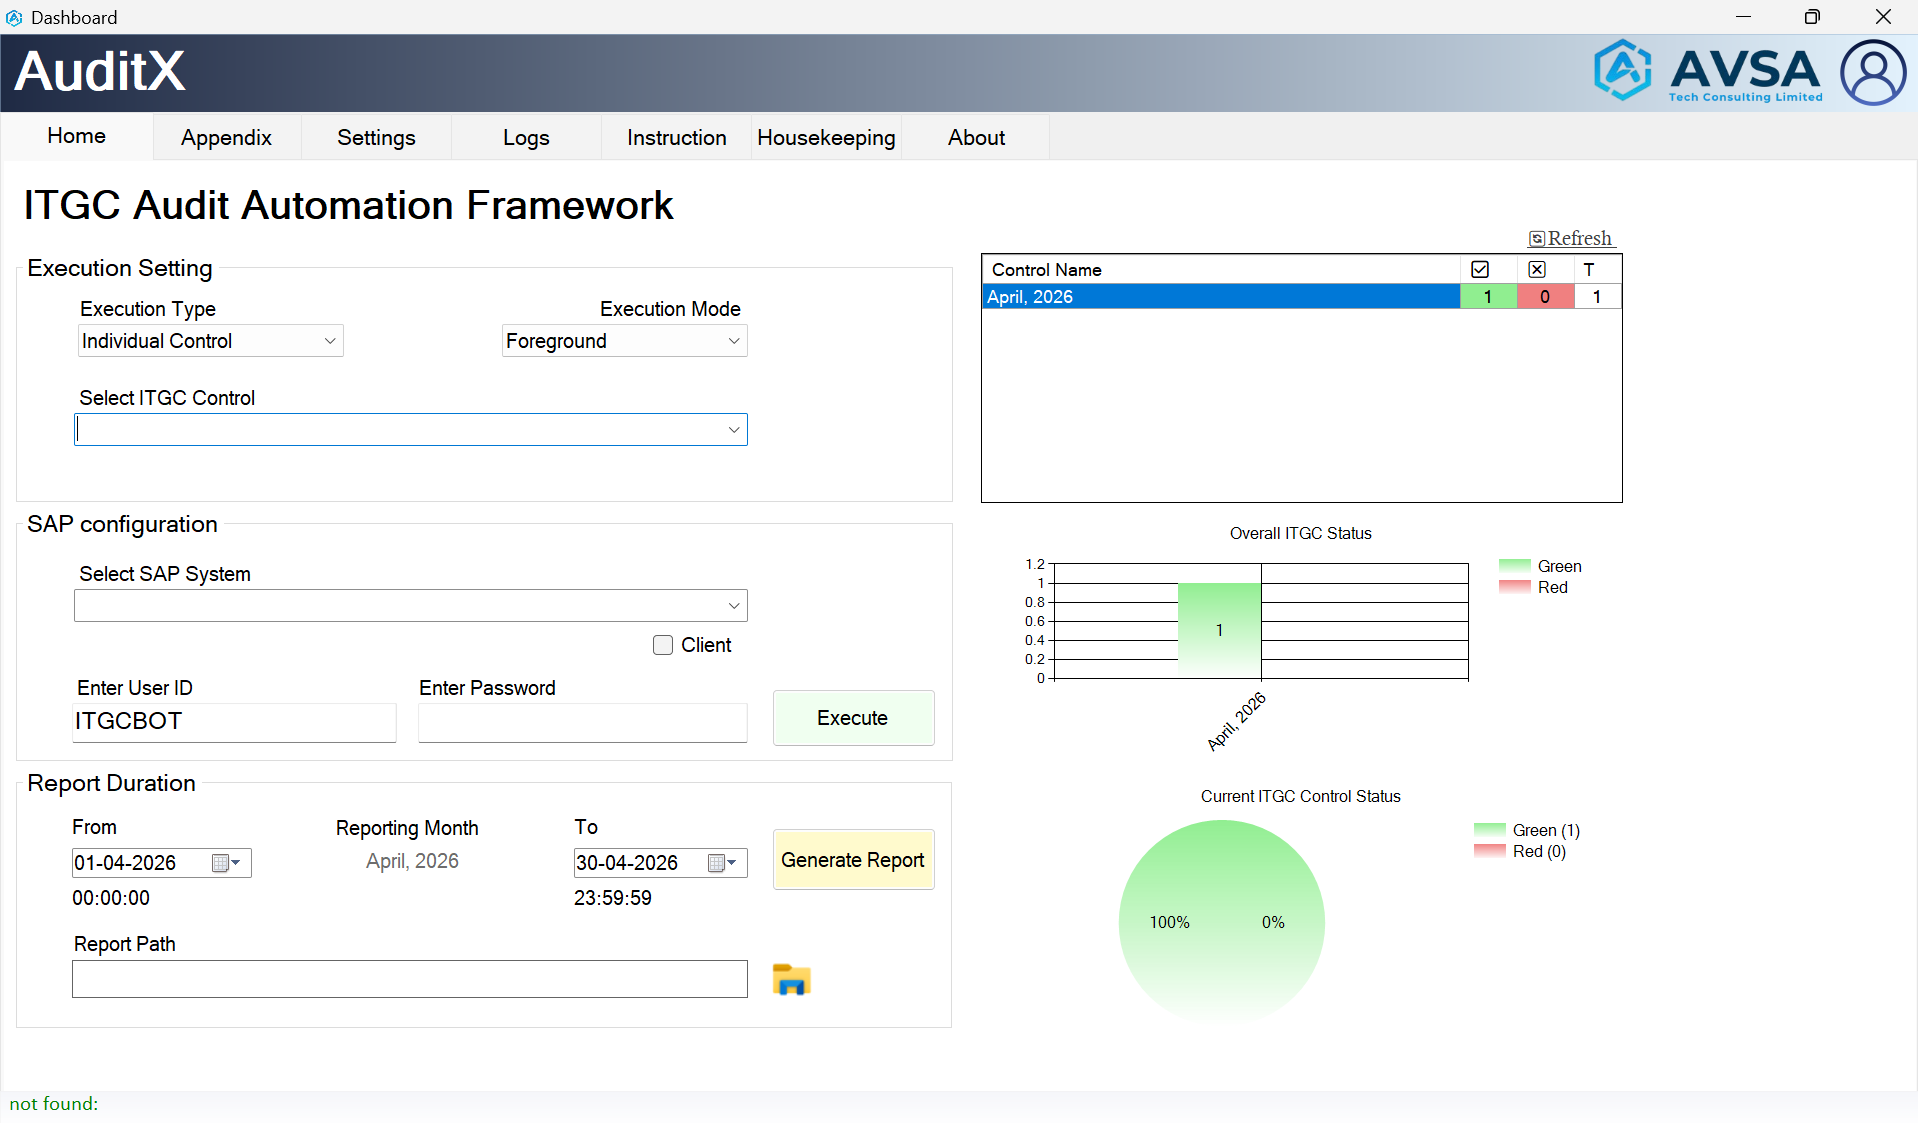
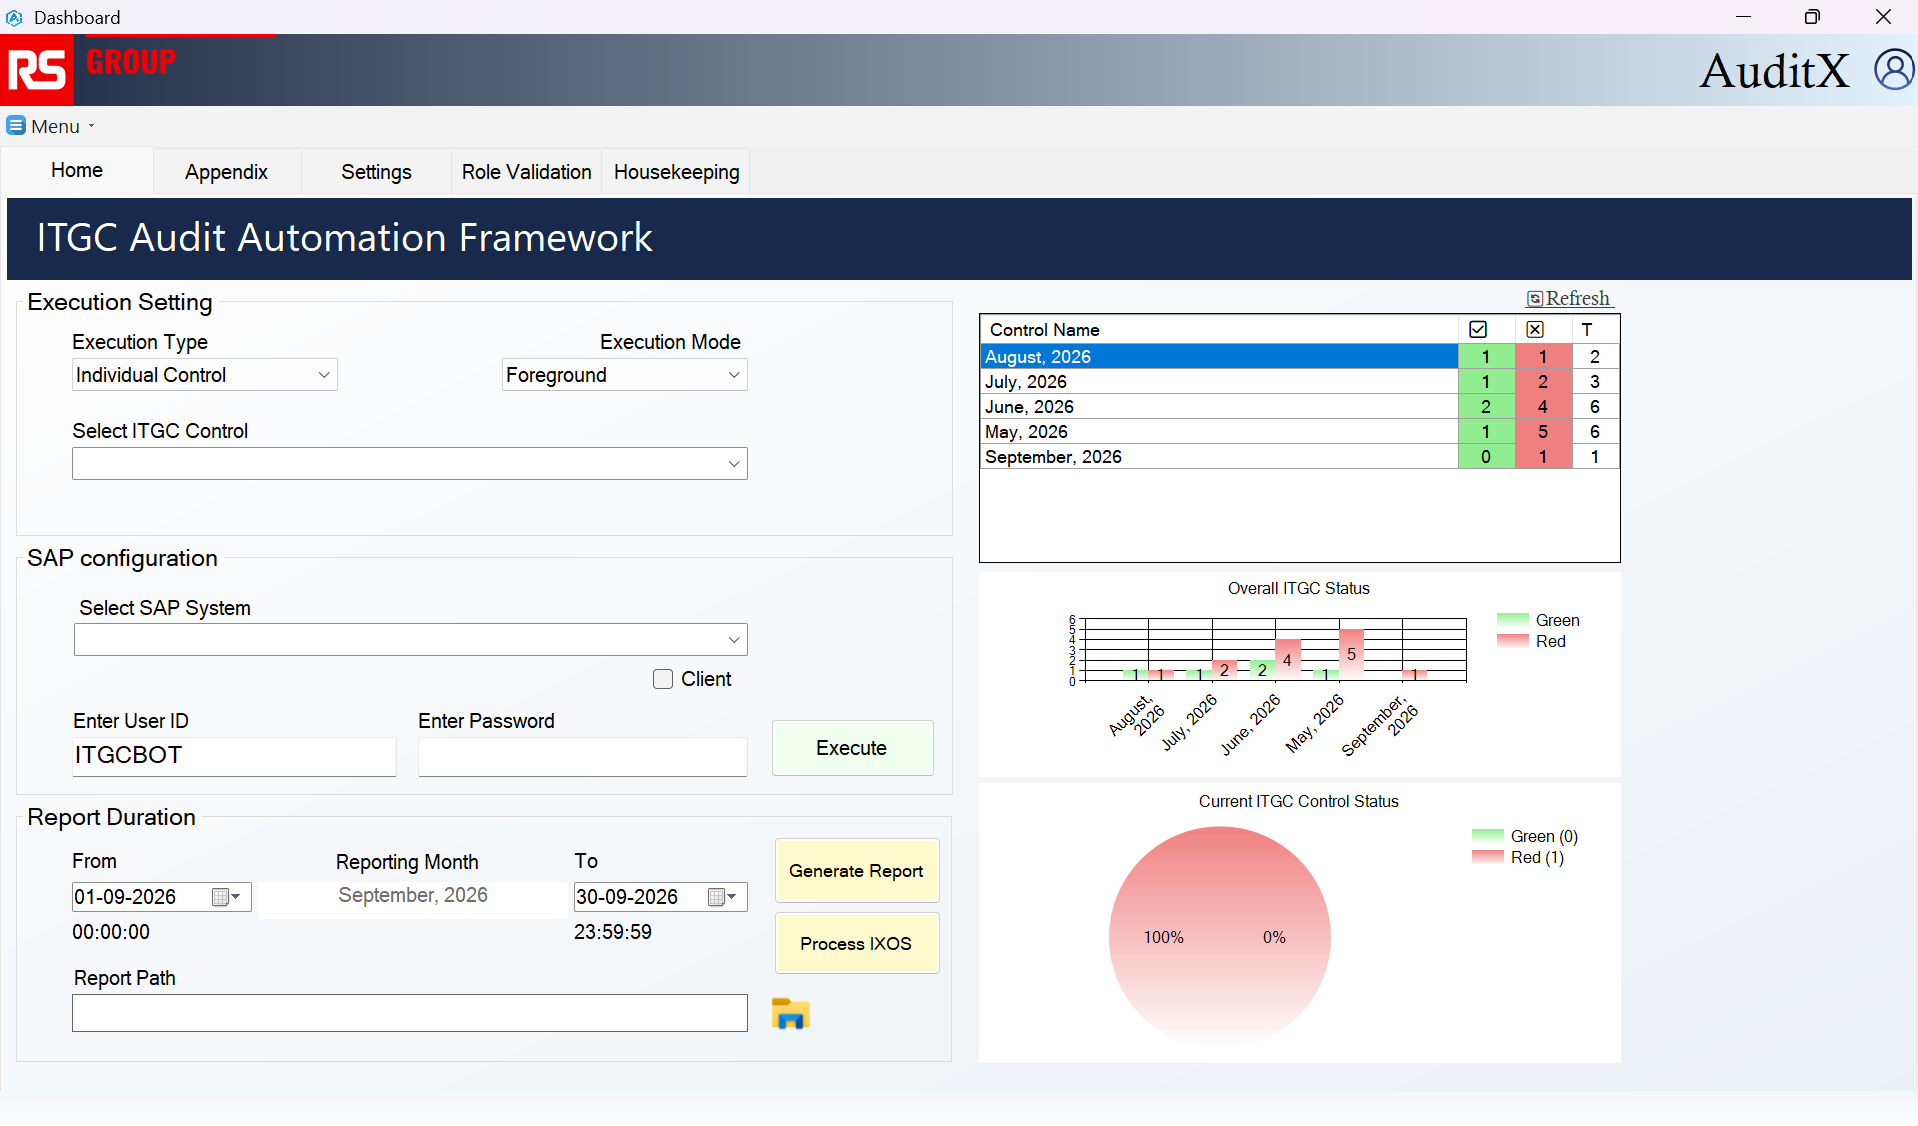
Update

diff --git a/sopdoc.html b/sopdoc.html
@@ -1026,7 +1026,19 @@
                                                 <div><strong>Screenshot not found</strong><br><small>Expected: <code>img/placeholder-settings.png</code></small></div>
                                             </div>
                                         </div>
-                                        <div class="screenshot-caption">Figure 12-1: Settings tab showing all configurable parameters including paths, timing, and approved user lists per control</div>
+                                        <div class="screenshot-caption">Figure 12-1: Settings tab showing all configurable parameters including sap software location, downloadable paths, system configuration and timing</div>
+                                         <div class="screenshot-body">
+                                            <img src="img/placeholder-settings2.png"
+                                                 alt="Settings Tab"
+                                                 class="screenshot-img"
+                                                 loading="lazy"
+                                                 onerror="this.style.display='none';this.nextElementSibling.style.display='flex'">
+                                            <div class="screenshot-missing" style="display:none">
+                                                <i class="bi bi-image-alt"></i>
+                                                <div><strong>Screenshot not found</strong><br><small>Expected: <code>img/placeholder-settings.png</code></small></div>
+                                            </div>
+                                        </div>
+                                        <div class="screenshot-caption">Figure 12-2: Settings tab showing all configurable parameters including approved or exclusion user/transaction/program/parameters lists per control</div>
                                     </div>
                                 </div>
                             </div>
